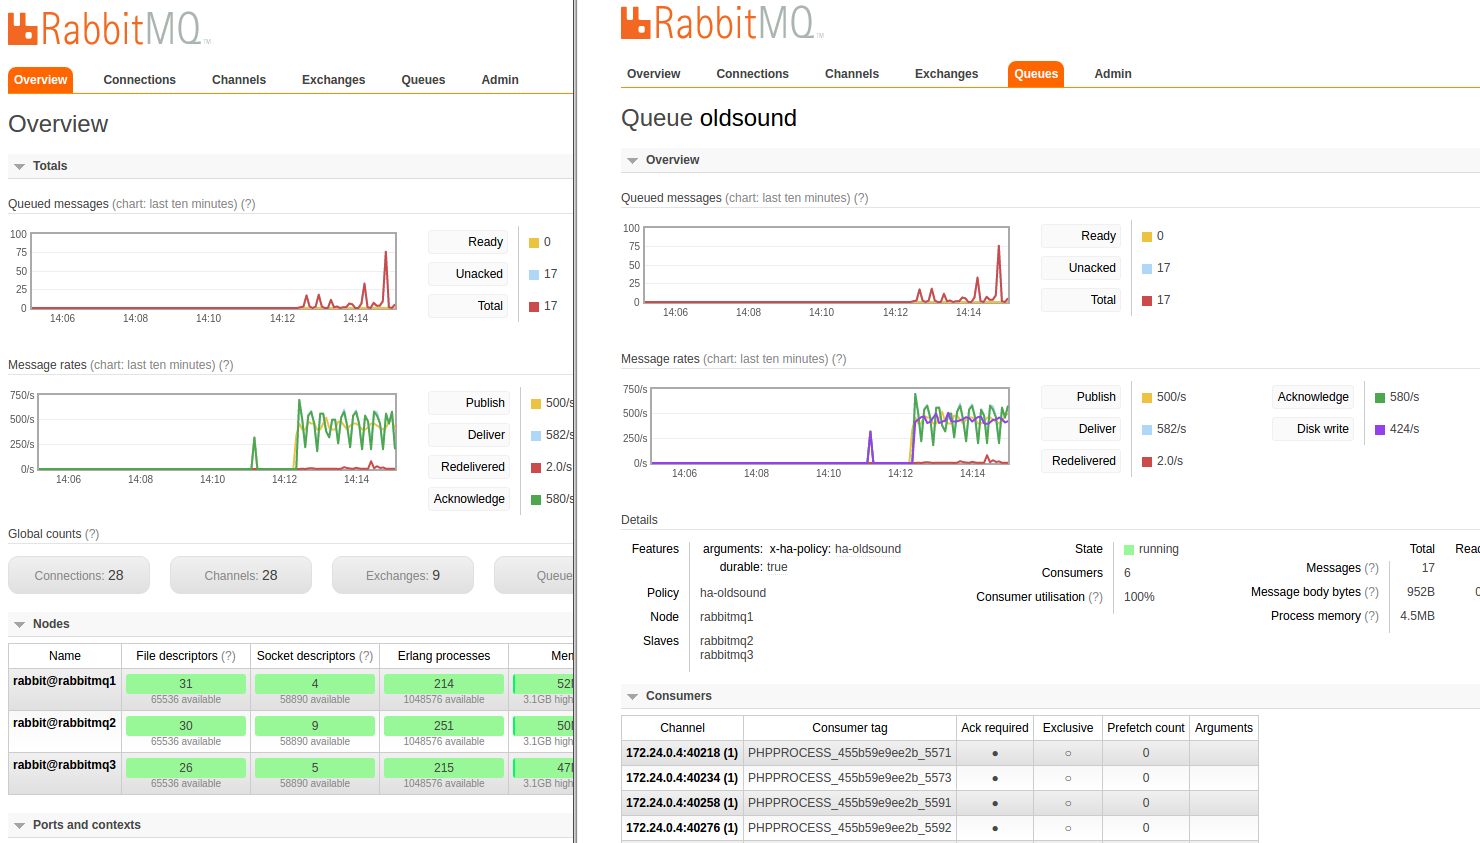
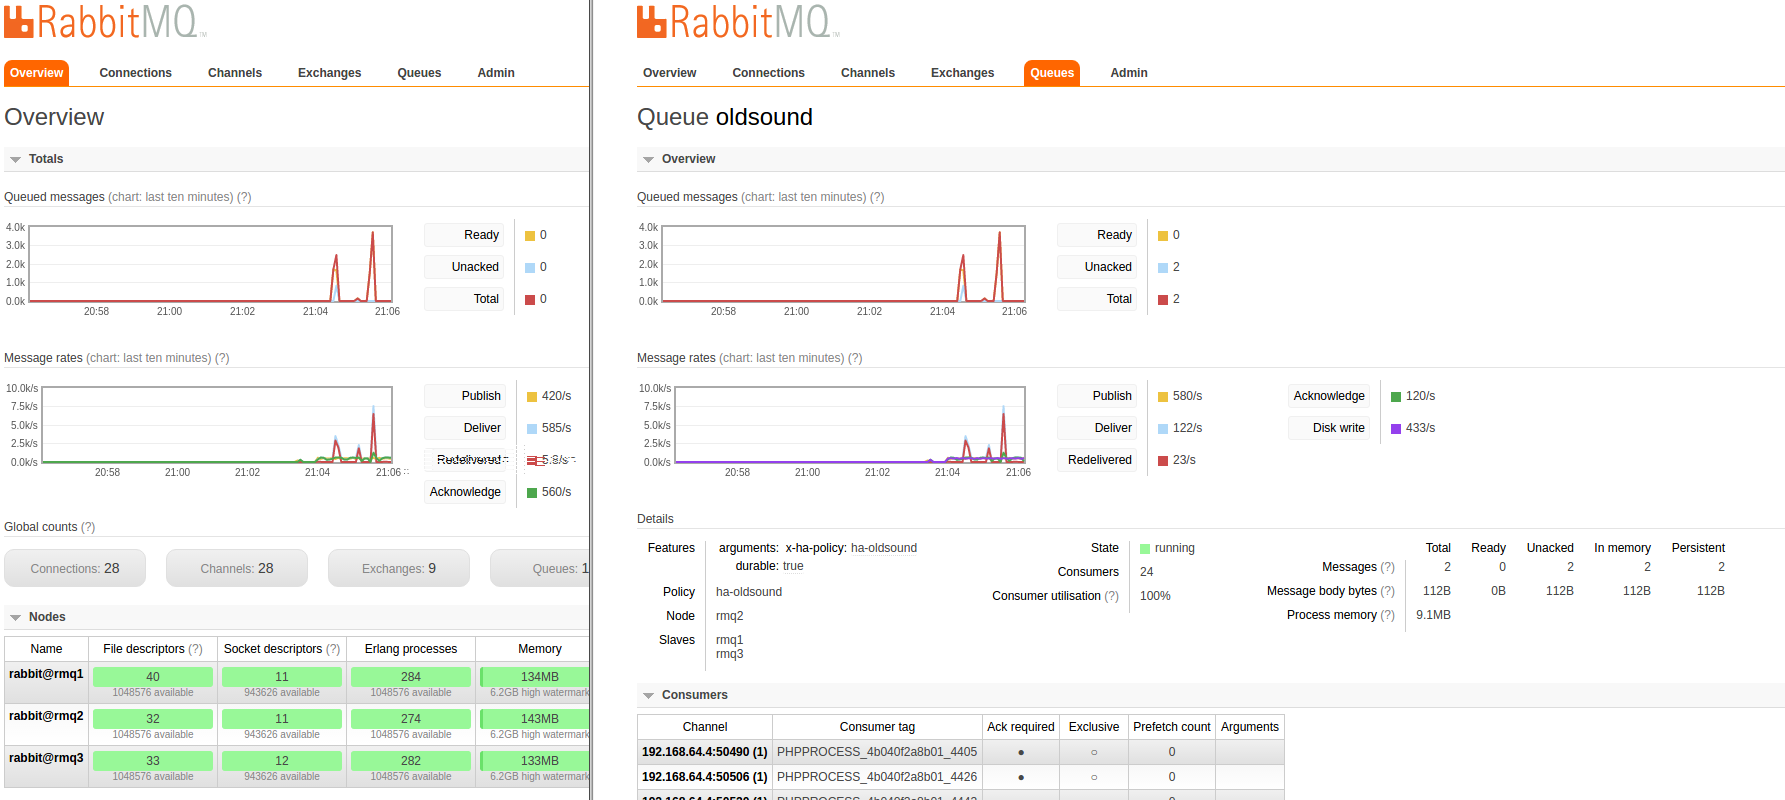
First release

diff --git a/README.md b/README.md
@@ -1,5 +1,6 @@
 # Docker Rabbitmq HA Cluster
 
+## TLDR
 A docker stack to create, test and benchmark a rabbitmq cluster in high availability configuration:
 
 * HAProxy
@@ -11,21 +12,24 @@ A docker stack to create, test and benchmark a rabbitmq cluster in high availabi
 * Parallel producers
 * Parallel consumers
 
-![Rabbit cluster](./img/rabbitmq.png)
+If you have questions, comments or suggestions please just create issues.
+
 
 ## The stack
+
+![Rabbit cluster](./img/rabbitmq.png)
 
 A lot of great tools (thanks to all awesome authors)
 
 * Make
 * Docker and docker-compose
 * Rabbitmq and Management Plugin (docker)
-* HAProxy (docker)
+* [HAProxy](https://github.com/docker/dockercloud-haproxy)
 * Shell scripts
 * Symfony MicroFramework (producers and consumers in docker containers)
-* swarrot/swarrot-bundle
-* php-amqplib/rabbitmq-bundle
-* odolbeau/rabbit-mq-admin-toolkit
+* [swarrot](https://github.com/swarrot/swarrot) / [swarrot-bundle](https://github.com/swarrot/SwarrotBundle)
+* [php-amqplib/rabbitmq-bundle](https://github.com/php-amqplib/RabbitMqBundle)
+* [odolbeau/rabbit-mq-admin-toolkit](https://github.com/odolbeau/rabbit-mq-admin-toolkit)
 
 ## Tests / Benchmark
 
@@ -54,13 +58,15 @@ make stop && make start # To restart the cluster properly
 ```shell
 $ make state
 == Print state of containers ==
-            Name                           Command               State                                                          Ports                                                         
----------------------------------------------------------------------------------------------------------------------------------------------------------------------------------------------
-rabbitmqbenchmark_haproxy_1     /sbin/tini -- dockercloud- ...   Up      1936/tcp, 443/tcp, 0.0.0.0:5672->5672/tcp, 0.0.0.0:80->80/tcp                                                        
-rabbitmqbenchmark_rabbitmq1_1   /pre-entrypoint.sh rabbitm ...   Up      127.0.0.1:1234->15672/tcp, 25672/tcp, 4369/tcp, 5672/tcp, 9100/tcp, 9101/tcp, 9102/tcp, 9103/tcp, 9104/tcp, 9105/tcp 
-rabbitmqbenchmark_rabbitmq2_1   /pre-entrypoint.sh rabbitm ...   Up      127.0.0.1:1235->15672/tcp, 25672/tcp, 4369/tcp, 5672/tcp, 9100/tcp, 9101/tcp, 9102/tcp, 9103/tcp, 9104/tcp, 9105/tcp 
-rabbitmqbenchmark_rabbitmq3_1   /pre-entrypoint.sh rabbitm ...   Up      127.0.0.1:1236->15672/tcp, 25672/tcp, 4369/tcp, 5672/tcp, 9100/tcp, 9101/tcp, 9102/tcp, 9103/tcp, 9104/tcp, 9105/tcp
+    Name                   Command               State                                                          Ports                                                         
+-----------------------------------------------------------------------------------------------------------------------------------------------------------------------------
+rmq_haproxy_1   /sbin/tini -- dockercloud- ...   Up      1936/tcp, 443/tcp, 0.0.0.0:5672->5672/tcp, 0.0.0.0:80->80/tcp                                                        
+rmq_rmq1_1      /pre-entrypoint.sh rabbitm ...   Up      127.0.0.1:1234->15672/tcp, 25672/tcp, 4369/tcp, 5672/tcp, 9100/tcp, 9101/tcp, 9102/tcp, 9103/tcp, 9104/tcp, 9105/tcp 
+rmq_rmq2_1      /pre-entrypoint.sh rabbitm ...   Up      127.0.0.1:1235->15672/tcp, 25672/tcp, 4369/tcp, 5672/tcp, 9100/tcp, 9101/tcp, 9102/tcp, 9103/tcp, 9104/tcp, 9105/tcp 
+rmq_rmq3_1      /pre-entrypoint.sh rabbitm ...   Up      127.0.0.1:1236->15672/tcp, 25672/tcp, 4369/tcp, 5672/tcp, 9100/tcp, 9101/tcp, 9102/tcp, 9103/tcp, 9104/tcp, 9105/tcp
 ```
+
+![Rabbit cluster](./img/ctop_start.png)
 
 Access the Management Plugin interface for nodes:
 
@@ -78,20 +84,20 @@ Simply use one of the library or both in the mean time.
 #### Set the ha-policy
 
 ```shell
-$ make cluster-sw 
+$ make cluster-sw
 == SWARROT Rabbit Clustering ==
 Setting policy "ha-swarrot" for pattern "^swarrot" to " {\"ha-mode\":\"all\",\"ha-sync-mode\":\"automatic\"}" with priority "0" ...
 ```
 
 ![Rabbit cluster](./img/rabbitmq-policy-swarrot.png)
 
-#### Excnahges/Queues
+#### Exchanges/Queues
 
 With Swarrot, exchanges and queues are not created by the library or the bundle.
 YOu need to create everything manually or with command line.
 
 ```shell
-$ make init-sw 
+$ make init-sw
 == Rabbit init ==
 IMPORTANT : Waiting for nothing because no  env var defined !!!
 With DL: false
@@ -118,9 +124,6 @@ Create binding between exchange swarrot and queue swarrot (with routing_key: swa
 
 ![Rabbit cluster](./img/rabbitmq-swarrot-ex-q.png)
 
-**HA Policy**
-
-![Rabbit cluster](./img/rabbitmq-ha-policy-2.png)
 
 #### Consumers
 
@@ -145,24 +148,21 @@ IMPORTANT : Waiting for nothing because no  env var defined !!!
 bash-4.3# ./produce.sh 
 ---------------------------------------------------
 > Type: swarrot
-> Info: 10 producuers running in parallel
+> Info: 10 producers running in parallel
 ---------------------------------------------------
-10 producuers running...
-Process 9: 100 more messages added
-Process 19: 100 more messages added
-Process 28: 100 more messages added
-Process 37: 100 more messages added
-Process 46: 100 more messages added
-Process 55: 100 more messages added
-Process 64: 100 more messages added
-Process 73: 100 more messages added
-Process 82: 100 more messages added
-Process 91: 100 more messages added
-10 new producuers running...
-Process 100: 100 more messages added
-Process 109: 100 more messages added
-Process 118: 100 more messages added
-Process 127: 100 more messages added
+10 producers running...
+Process 10: 100 more messages added
+Process 20: 100 more messages added
+Process 29: 100 more messages added
+Process 38: 100 more messages added
+Process 47: 100 more messages added
+Process 56: 100 more messages added
+Process 65: 100 more messages added
+Process 74: 100 more messages added
+Process 83: 100 more messages added
+Process 92: 100 more messages added
+10 new producers running...
+Process 101: 100 more messages added
 ```
 
 Once consumers and producers are started you should see messages in the Rabbitmq Management Plugin interface for all nodes.
@@ -209,18 +209,17 @@ bash-4.3# ./produce.sh oldsound
 > Info: 10 producers running in parallel
 ---------------------------------------------------
 10 producers running...
-Process 10: 100 more messages added
-Process 20: 100 more messages added
-Process 29: 100 more messages added
-Process 38: 100 more messages added
-Process 47: 100 more messages added
-Process 56: 100 more messages added
-Process 65: 100 more messages added
-Process 74: 100 more messages added
-Process 86: 100 more messages added
-Process 83: 100 more messages added
+Process 582: 100 more messages added
+Process 591: 100 more messages added
+Process 600: 100 more messages added
+Process 609: 100 more messages added
+Process 618: 100 more messages added
+Process 627: 100 more messages added
+Process 636: 100 more messages added
+Process 645: 100 more messages added
+Process 654: 100 more messages added
+Process 663: 100 more messages added
 10 new producers running...
-Process 101: 100 more messages added
 ```
 
 Once consumers and producers are started you should see messages in the Rabbitmq Management Plugin interface for all nodes.
@@ -233,16 +232,81 @@ Once consumers and producers are started you should see messages in the Rabbitmq
 
 #### Stop the first node
 
+```
+$ make stop-node-1
+== Stop rabbitmq node 1 from cluster ==
+rmq_rmq1_1
+```
+
+![Rabbit cluster](./img/rabbitmq-node1-stop.png)
+
 #### Stop the second node
+
+```
+$ make stop-node-2 
+== Stop rabbitmq node 2 from cluster ==
+rmq_rmq2_1
+```
+
+![Rabbit cluster](./img/rabbitmq-node2-stop.png)
 
 #### Restart the first node
 
-#### Stop the third node
+```
+$ make resume-node-1
+== Stop rabbitmq node 1 from cluster ==
+rmq_rmq1_1
+```
+
+![Rabbit cluster](./img/rabbitmq-node1-restart.png)
 
 #### Restart all nodes
 
+```
+$ make start
+== Start App ==
+rmq_rmq1_1 is up-to-date
+Starting rmq_rmq2_1
+Starting rmq_rmq3_1
+rmq_haproxy_1 is up-to-date
+```
+
+![Rabbit cluster](./img/rabbitmq-all-restart.png)
+
 ### Network partition
 
-#### Exclude node 1 from the cluster network
+#### Exclude node 1 from the network cluster
+
+```
+$ make exclude-node-1
+== Exclude rabbitmq node 1 from cluster ==
+```
+
+#### Restore node 1 in the network cluster
+
+```
+$ make restore-node-1 
+== Exclude rabbit node 1 from cluster ==
+```
+
+**Partition between node 1 and node 2 and 3...**
+
+![Rabbit cluster](./img/rabbit-netpart-1.png)
+
+
+![Rabbit cluster](./img/rabbit-netpart-2.png)
+
+**...but all nodes are still running**
+
+![Rabbit cluster](./img/rabbitmq-netpart-ctop.png)
+
+
+[https://www.rabbitmq.com/partitions.html](https://www.rabbitmq.com/partitions.html)
+
+## TODO
+
+* More documentation.
+* Documentation on retry with swarrot.
+* Change rabbitmq docker image for more startup stability.
 
 
